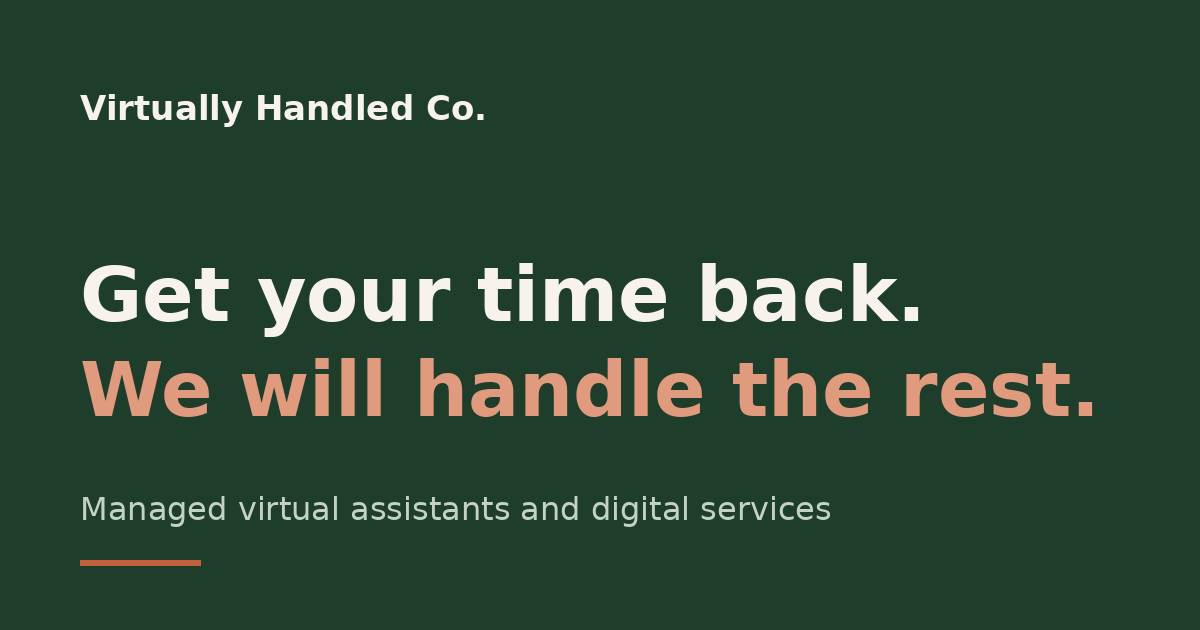
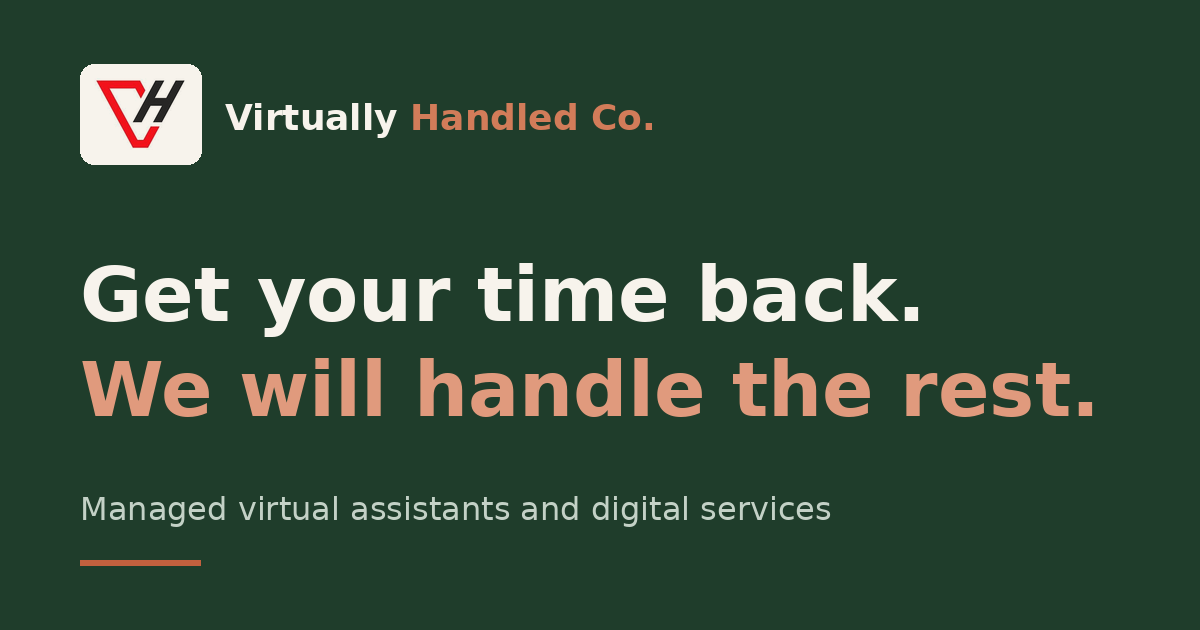
Add founder photo

Changed region(s): [[0.0617, 0.0905, 0.555, 0.2714]]

diff --git a/src/data/industries.js b/src/data/industries.js
@@ -6,6 +6,13 @@
  * `services` lists service slugs from services.js.
  */
 
+/** Shown after the list so visitors from other industries know they are welcome. */
+export const otherIndustries = {
+  title: "Don't see your industry?",
+  text: "Most of what we do, from inbox and calendar to leads, CRM and social media, works for any business. Tell us what you need.",
+  cta: { label: "Tell us about your business", href: "/contact" },
+};
+
 export const industries = [
   {
     slug: "wedding-creative-studios",
@@ -60,28 +67,54 @@ export const industries = [
     ],
   },
   {
-    slug: "coaches-service-businesses",
-    name: "Coaches & Service Businesses",
-    shortName: "Coaches & Services",
-    icon: "Users",
+    slug: "professional-services",
+    name: "Consultants, Coaches & Professional Services",
+    shortName: "Professional Services",
+    icon: "Briefcase",
     summary:
-      "More discovery calls on your calendar and far less admin between sessions.",
+      "More time for billable work, with clients, calls and paperwork kept in order.",
     challenges: [
-      "Every hour on admin is an hour not spent with clients",
-      "Discovery calls are booked by hand over long email threads",
+      "Every hour on admin is an hour you cannot bill",
+      "Calls and meetings are booked by hand over long email threads",
+      "Client documents, invoices and follow-ups are easy to let slip",
       "Content and newsletters get pushed back week after week",
-      "Onboarding new clients is inconsistent",
     ],
     howWeHelp: [
       "Inbox and calendar management",
-      "Lead follow-up and discovery call booking",
-      "Automated client onboarding in your CRM",
+      "Lead follow-up and consultation booking",
+      "Client onboarding, document collection and reminders",
+      "Invoicing, billing follow-ups and client admin",
       "Social media and newsletter support",
-      "Invoicing and client admin",
     ],
     services: [
       "virtual-executive-assistants",
       "lead-management-appointment-setting",
+      "crm-setup-automation",
+    ],
+  },
+  {
+    slug: "health-wellness",
+    name: "Health, Wellness & Fitness Practices",
+    shortName: "Health & Wellness",
+    icon: "Heart",
+    summary:
+      "Fuller calendars and happier clients, while you focus on the people in front of you.",
+    challenges: [
+      "Phones, messages and booking requests interrupt sessions",
+      "No-shows and last-minute cancellations leave gaps in the day",
+      "Reviews, referrals and follow-ups are hard to keep up with",
+      "Marketing is the first thing to slip in a busy week",
+    ],
+    howWeHelp: [
+      "Booking, rescheduling and appointment reminders",
+      "Inquiry replies and new client intake",
+      "Follow-ups, review requests and rebooking campaigns",
+      "Social media content and scheduling",
+      "Invoicing and day-to-day admin",
+    ],
+    services: [
+      "lead-management-appointment-setting",
+      "virtual-executive-assistants",
       "social-media-management",
     ],
   },

diff --git a/src/pages/Industries.jsx b/src/pages/Industries.jsx
@@ -2,10 +2,11 @@ import Seo from "../components/Seo.jsx";
 import PageHeader from "../components/ui/PageHeader.jsx";
 import Reveal from "../components/ui/Reveal.jsx";
 import { Container } from "../components/ui/Section.jsx";
+import Button from "../components/ui/Button.jsx";
 import { ServicePills } from "../components/sections/Cards.jsx";
 import { Icon } from "../lib/icons.jsx";
 import { pageMeta } from "../lib/seo.js";
-import { industries } from "../data/industries.js";
+import { industries, otherIndustries } from "../data/industries.js";
 import { industriesIntro } from "../data/home.js";
 
 export default function Industries() {
@@ -26,6 +27,14 @@ export default function Industries() {
                 </a>
               </li>
             ))}
+            <li>
+              <a
+                href="#other-industries"
+                className="inline-flex items-center gap-2 rounded-full border border-dashed border-accent-400/50 px-4 py-2 text-sm text-primary-100 transition hover:border-accent-400 hover:text-white"
+              >
+                Other industries
+              </a>
+            </li>
           </ul>
         </nav>
       </PageHeader>
@@ -83,6 +92,24 @@ export default function Industries() {
           </section>
         );
       })}
+
+      <section
+        id="other-industries"
+        aria-labelledby="other-industries-title"
+        className={`py-20 sm:py-24 ${industries.length % 2 ? "bg-paper-200" : "bg-white"}`}
+      >
+        <Container>
+          <Reveal className="max-w-2xl">
+            <h2 id="other-industries-title" className="text-3xl font-bold sm:text-4xl">
+              {otherIndustries.title}
+            </h2>
+            <p className="mt-4 text-lg leading-relaxed text-ink-600">{otherIndustries.text}</p>
+            <Button href={otherIndustries.cta.href} className="mt-8">
+              {otherIndustries.cta.label}
+            </Button>
+          </Reveal>
+        </Container>
+      </section>
     </>
   );
 }

diff --git a/src/components/ui/Logo.jsx b/src/components/ui/Logo.jsx
@@ -3,17 +3,35 @@ import { AGENCY_NAME, site } from "../../data/site.js";
 
 /**
  * The logo image is public/logo.png, shown exactly as supplied.
- * If your logo is a symbol without the name, set
- * `logo.showName: true` in src/data/site.js to print the name beside it.
+ * On dark backgrounds it sits on a small off-white tile so its
+ * colours stay readable without being changed.
+ * `logo.showName` in src/data/site.js prints the name beside it.
  */
 export default function Logo({ dark = false, className = "" }) {
   const { src, showName } = site.logo;
+  // The first word stays plain; the rest ("Handled Co.") is clay.
+  const [first, ...others] = AGENCY_NAME.trim().split(/\s+/);
+  const rest = others.join(" ");
   return (
-    <Link to="/" className={`inline-flex items-center gap-2.5 ${className}`} aria-label={`${AGENCY_NAME} home`}>
-      <img src={src} alt={showName ? "" : AGENCY_NAME} className="h-10 w-auto max-w-48 object-contain" />
+    <Link to="/" className={`inline-flex items-center gap-3 ${className}`} aria-label={`${AGENCY_NAME} home`}>
+      <span className={`inline-flex shrink-0 ${dark ? "rounded-lg bg-paper p-1.5" : ""}`}>
+        <img
+          src={src}
+          alt={showName ? "" : AGENCY_NAME}
+          width="232"
+          height="179"
+          className={`w-auto object-contain ${dark ? "h-7" : "h-10"}`}
+        />
+      </span>
       {showName && (
         <span className={`font-display text-lg font-bold tracking-tight ${dark ? "text-white" : "text-ink-950"}`}>
-          {AGENCY_NAME}
+          {first}
+          {rest && (
+            <>
+              {" "}
+              <span className={dark ? "text-accent-400" : "text-accent-600"}>{rest}</span>
+            </>
+          )}
         </span>
       )}
     </Link>

diff --git a/src/pages/Home.jsx b/src/pages/Home.jsx
@@ -3,7 +3,7 @@ import Seo from "../components/Seo.jsx";
 import Button from "../components/ui/Button.jsx";
 import Reveal from "../components/ui/Reveal.jsx";
 import { Container, Section, SectionHeading } from "../components/ui/Section.jsx";
-import { IndustryCard, ServiceCard } from "../components/sections/Cards.jsx";
+import { IndustryCard, OtherIndustryCard, ServiceCard } from "../components/sections/Cards.jsx";
 import { ProcessCompact } from "../components/sections/ProcessSteps.jsx";
 import Testimonials from "../components/sections/Testimonials.jsx";
 import { Icon } from "../lib/icons.jsx";
@@ -11,7 +11,7 @@ import { pageMeta } from "../lib/seo.js";
 import { site } from "../data/site.js";
 import { hero, industriesIntro, painPoints, servicesIntro } from "../data/home.js";
 import { services } from "../data/services.js";
-import { industries } from "../data/industries.js";
+import { industries, otherIndustries } from "../data/industries.js";
 import { processIntro, processSteps } from "../data/process.js";
 
 /** Illustrative "your week" card in the hero. No numbers, nothing invented. */
@@ -116,12 +116,15 @@ export default function Home() {
       {/* Industries */}
       <Section tone="dark">
         <SectionHeading {...industriesIntro} dark />
-        <div className="mt-14 grid gap-5 sm:grid-cols-2 lg:grid-cols-5">
+        <div className="mt-14 grid gap-5 sm:grid-cols-2 lg:grid-cols-4">
           {industries.map((ind, i) => (
             <Reveal key={ind.slug} delay={i * 70}>
               <IndustryCard industry={ind} />
             </Reveal>
           ))}
+          <Reveal delay={industries.length * 70} className="sm:col-span-2">
+            <OtherIndustryCard data={otherIndustries} />
+          </Reveal>
         </div>
       </Section>
 

diff --git a/src/pages/About.jsx b/src/pages/About.jsx
@@ -3,8 +3,8 @@ import PageHeader from "../components/ui/PageHeader.jsx";
 import Reveal from "../components/ui/Reveal.jsx";
 import Button from "../components/ui/Button.jsx";
 import { Section, SectionHeading } from "../components/ui/Section.jsx";
-import { PlaceholderBadge, SafeLink, Text, visibleItems } from "../components/ui/Placeholder.jsx";
-import { Icon, LinkedInIcon } from "../lib/icons.jsx";
+import { PlaceholderBadge, Text, visibleItems } from "../components/ui/Placeholder.jsx";
+import { Icon } from "../lib/icons.jsx";
 import { pageMeta } from "../lib/seo.js";
 import { aboutIntro, mission, story, teamIntro, values } from "../data/about.js";
 import { founder, team } from "../data/team.js";
@@ -111,13 +111,6 @@ export default function About() {
                 <p key={p}>{p}</p>
               ))}
             </div>
-            <SafeLink
-              href={founder.linkedin}
-              className="mt-8 inline-flex items-center gap-2 font-semibold text-ink-950 hover:text-accent-700"
-            >
-              <LinkedInIcon className="size-5" />
-              Connect on LinkedIn
-            </SafeLink>
           </Reveal>
         </div>
       </Section>

diff --git a/src/components/sections/Cards.jsx b/src/components/sections/Cards.jsx
@@ -48,6 +48,24 @@ export function IndustryCard({ industry }) {
   );
 }
 
+/** "Don't see your industry?" card, shown after the industry cards. */
+export function OtherIndustryCard({ data, className = "" }) {
+  return (
+    <Link
+      to={data.cta.href}
+      className={`group flex h-full flex-col justify-between rounded-2xl border border-dashed border-accent-400/50 p-6 transition-colors duration-200 hover:border-accent-300 ${className}`}
+    >
+      <div>
+        <h3 className="text-lg font-bold text-white">{data.title}</h3>
+        <p className="mt-2 text-sm leading-relaxed text-primary-200">{data.text}</p>
+      </div>
+      <span className="mt-6 inline-flex items-center gap-1.5 text-sm font-semibold text-accent-300 group-hover:text-white">
+        {data.cta.label} <ArrowUpRight className="size-4" aria-hidden="true" />
+      </span>
+    </Link>
+  );
+}
+
 /** Small pill links to services, used on industry pages. */
 export function ServicePills({ slugs, dark = false }) {
   return (

diff --git a/src/data/about.js b/src/data/about.js
@@ -16,7 +16,7 @@ export const story = {
   paragraphs: [
     `${AGENCY_NAME} started with one assistant supporting international clients. Over time it became clear that clients did not just need an extra pair of hands. They needed someone reliable, the right systems and the confidence that nothing would slip.`,
     "So we built an agency around that idea. Our virtual assistants and specialists are trained, vetted and managed. Every client gets a dedicated assistant plus our oversight: structured onboarding, documented SOPs, regular quality checks and weekly reports.",
-    "Today we support wedding photographers, real estate teams, coaches, e-commerce stores and founders with everything from inbox management to ad campaigns, CRM automation and custom websites.",
+    "Today we support creative studios, real estate teams, consultants and coaches, wellness practices, e-commerce stores and founders with everything from inbox management to ad campaigns, CRM automation and custom websites.",
   ],
 };
 

diff --git a/src/data/seo.js b/src/data/seo.js
@@ -22,7 +22,7 @@ export const pageSeo = {
   },
   industries: {
     title: "Industries We Serve",
-    description: "Virtual assistant and digital support for wedding and creative studios, real estate, coaches, e-commerce stores and startups.",
+    description: "Virtual assistant and digital support for creative studios, real estate, professional services, health and wellness, e-commerce, startups and more.",
   },
   howItWorks: {
     title: "How It Works",

diff --git a/src/data/home.js b/src/data/home.js
@@ -34,7 +34,7 @@ export const servicesIntro = {
 export const industriesIntro = {
   eyebrow: "Who we help",
   title: "Support built around your industry",
-  text: "We know the tools, the busy seasons and the clients you serve.",
+  text: "We learn your tools, your busy seasons and the clients you serve, whatever your industry.",
 };
 
 export const testimonialsIntro = {

diff --git a/src/data/site.js b/src/data/site.js
@@ -20,7 +20,7 @@ export const site = {
   // Set showName to true if the image is a symbol only (no agency name in it).
   logo: {
     src: "/logo.png",
-    showName: false,
+    showName: true,
   },
 
   // Your live domain, no trailing slash. Used for canonical URLs, Open Graph and sitemap.xml.
